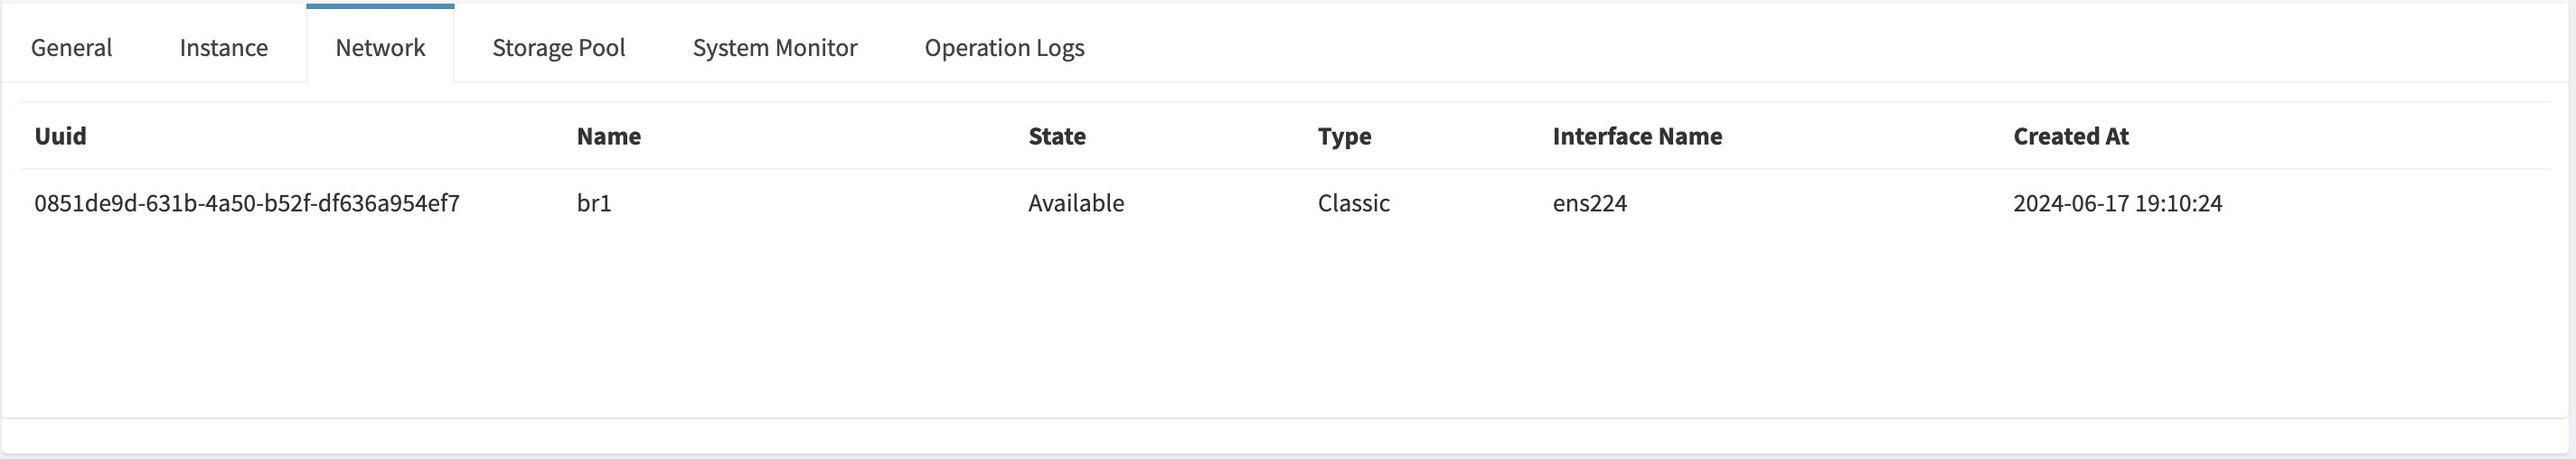
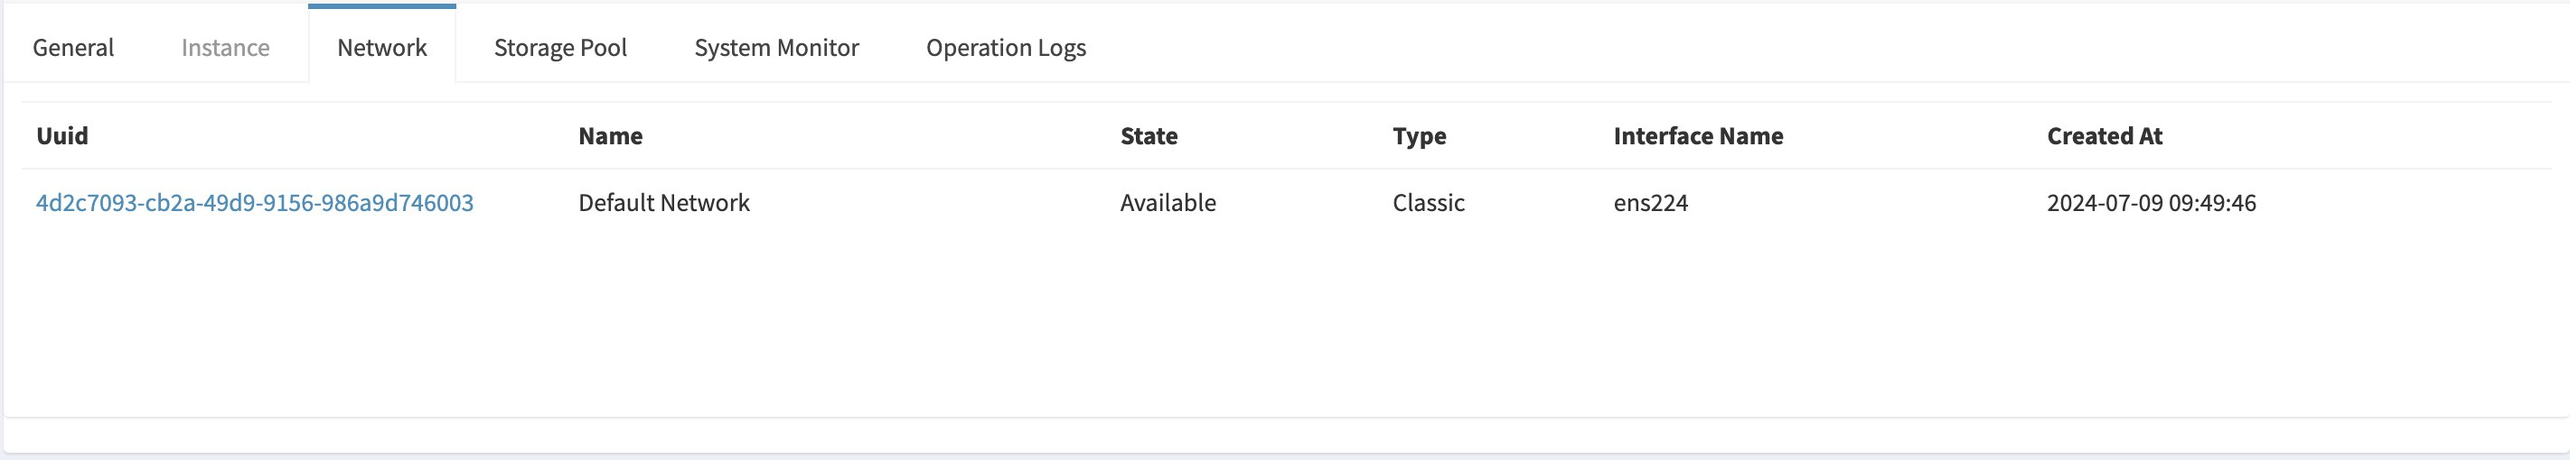
update

diff --git a/content/en/docs/Reference/API/api.md b/content/en/docs/Reference/API/api.md
@@ -3471,6 +3471,7 @@ list networks
 |name|query|string|false|filter by the 'name' field|
 |state|query|integer(int64)|false|filter by the 'state' field|
 |type|query|integer(int64)|false|filter by network type(0: classical network, 1:vlan, 2:vxlan)|
+|bridge_name|query|string|false|filter by network bridge's name|
 |interface_name|query|string|false|filter by network interface's name|
 |AzUuid|path|string|true|filter by AZ's uuid|
 |ClusterUuid|path|string|true|filter by the cluster's uuid|
@@ -3527,9 +3528,9 @@ Content-Type: application/json
 Accept: application/json
 Authorization: Bearer <api token>
 Host: api.yourchimestack.com:8801
-Content-Length: 81
+Content-Length: 101
 
-{"description":"default network","interface_name":"ens224","name":"br1","type":0}
+{"bridge_name":"br1","description":"default network","interface_name":"ens224","name":"br1","type":0}
 ```
 
 `POST /az/{AzUuid}/cluster/{ClusterUuid}/network`
@@ -3540,6 +3541,7 @@ create a network
 
 ```json
 {
+  "bridge_name": "br1",
   "description": "default network",
   "interface_name": "ens224",
   "name": "br1",
@@ -9131,6 +9133,7 @@ instance spec request
 
 ```json
 {
+  "bridge_name": "br1",
   "description": "default network",
   "interface_name": "ens224",
   "name": "br1",
@@ -9143,6 +9146,7 @@ instance spec request
 
 |Name|Type|Required|Restrictions|Description|
 |---|---|---|---|---|
+|bridge_name|string|true|none|the network's actual bridge name|
 |description|string|false|none|description for the network|
 |interface_name|string|true|none|the unified interface name which the network uses in the node|
 |name|string|true|none|the network's name|

diff --git a/content/zh/docs/Reference/API/api.md b/content/zh/docs/Reference/API/api.md
@@ -3471,6 +3471,7 @@ list networks
 |name|query|string|false|filter by the 'name' field|
 |state|query|integer(int64)|false|filter by the 'state' field|
 |type|query|integer(int64)|false|filter by network type(0: classical network, 1:vlan, 2:vxlan)|
+|bridge_name|query|string|false|filter by network bridge's name|
 |interface_name|query|string|false|filter by network interface's name|
 |AzUuid|path|string|true|filter by AZ's uuid|
 |ClusterUuid|path|string|true|filter by the cluster's uuid|
@@ -3527,9 +3528,9 @@ Content-Type: application/json
 Accept: application/json
 Authorization: Bearer <api token>
 Host: api.yourchimestack.com:8801
-Content-Length: 81
+Content-Length: 101
 
-{"description":"default network","interface_name":"ens224","name":"br1","type":0}
+{"bridge_name":"br1","description":"default network","interface_name":"ens224","name":"br1","type":0}
 ```
 
 `POST /az/{AzUuid}/cluster/{ClusterUuid}/network`
@@ -3540,6 +3541,7 @@ create a network
 
 ```json
 {
+  "bridge_name": "br1",
   "description": "default network",
   "interface_name": "ens224",
   "name": "br1",
@@ -9131,6 +9133,7 @@ instance spec request
 
 ```json
 {
+  "bridge_name": "br1",
   "description": "default network",
   "interface_name": "ens224",
   "name": "br1",
@@ -9143,6 +9146,7 @@ instance spec request
 
 |Name|Type|Required|Restrictions|Description|
 |---|---|---|---|---|
+|bridge_name|string|true|none|the network's actual bridge name|
 |description|string|false|none|description for the network|
 |interface_name|string|true|none|the unified interface name which the network uses in the node|
 |name|string|true|none|the network's name|

diff --git a/content/en/docs/Usage/WebUI/Platform/network/_index.md b/content/en/docs/Usage/WebUI/Platform/network/_index.md
@@ -15,6 +15,7 @@ layer-2 network list page
 * Create new layer-2 network
   * Input the name of the network
   * Choose the type of the layer-2 network from "classical network", "VLAN network" and "VxLan network", but current version of ChimeStack only support the "classical network", while the other two types of network are coming soon.
+  * Input the network bridge name
   * Input the network interface's name, which has been regularized before as a unique network interface name for all the nodes in the cluster.
   * (Optional) Input description
 {{% alert title="Warning" color="warning" %}}

diff --git a/content/zh/docs/Usage/WebUI/Platform/network/_index.md b/content/zh/docs/Usage/WebUI/Platform/network/_index.md
@@ -15,6 +15,7 @@ weight: 5
 ## 新建二层网络
   * 输入网络名称，注意网络名称只能包含"0-9"、"a-zA-Z"、"-"、"_"符号。
   * 选择网络类型(经典二层网络, VLAN网络和VxLan网络)，目前仅支持经典网络
+  * 输入网桥名称
   * 输入网卡名称
   * (可选)描述信息
 {{% alert title="警告" color="warning" %}}
